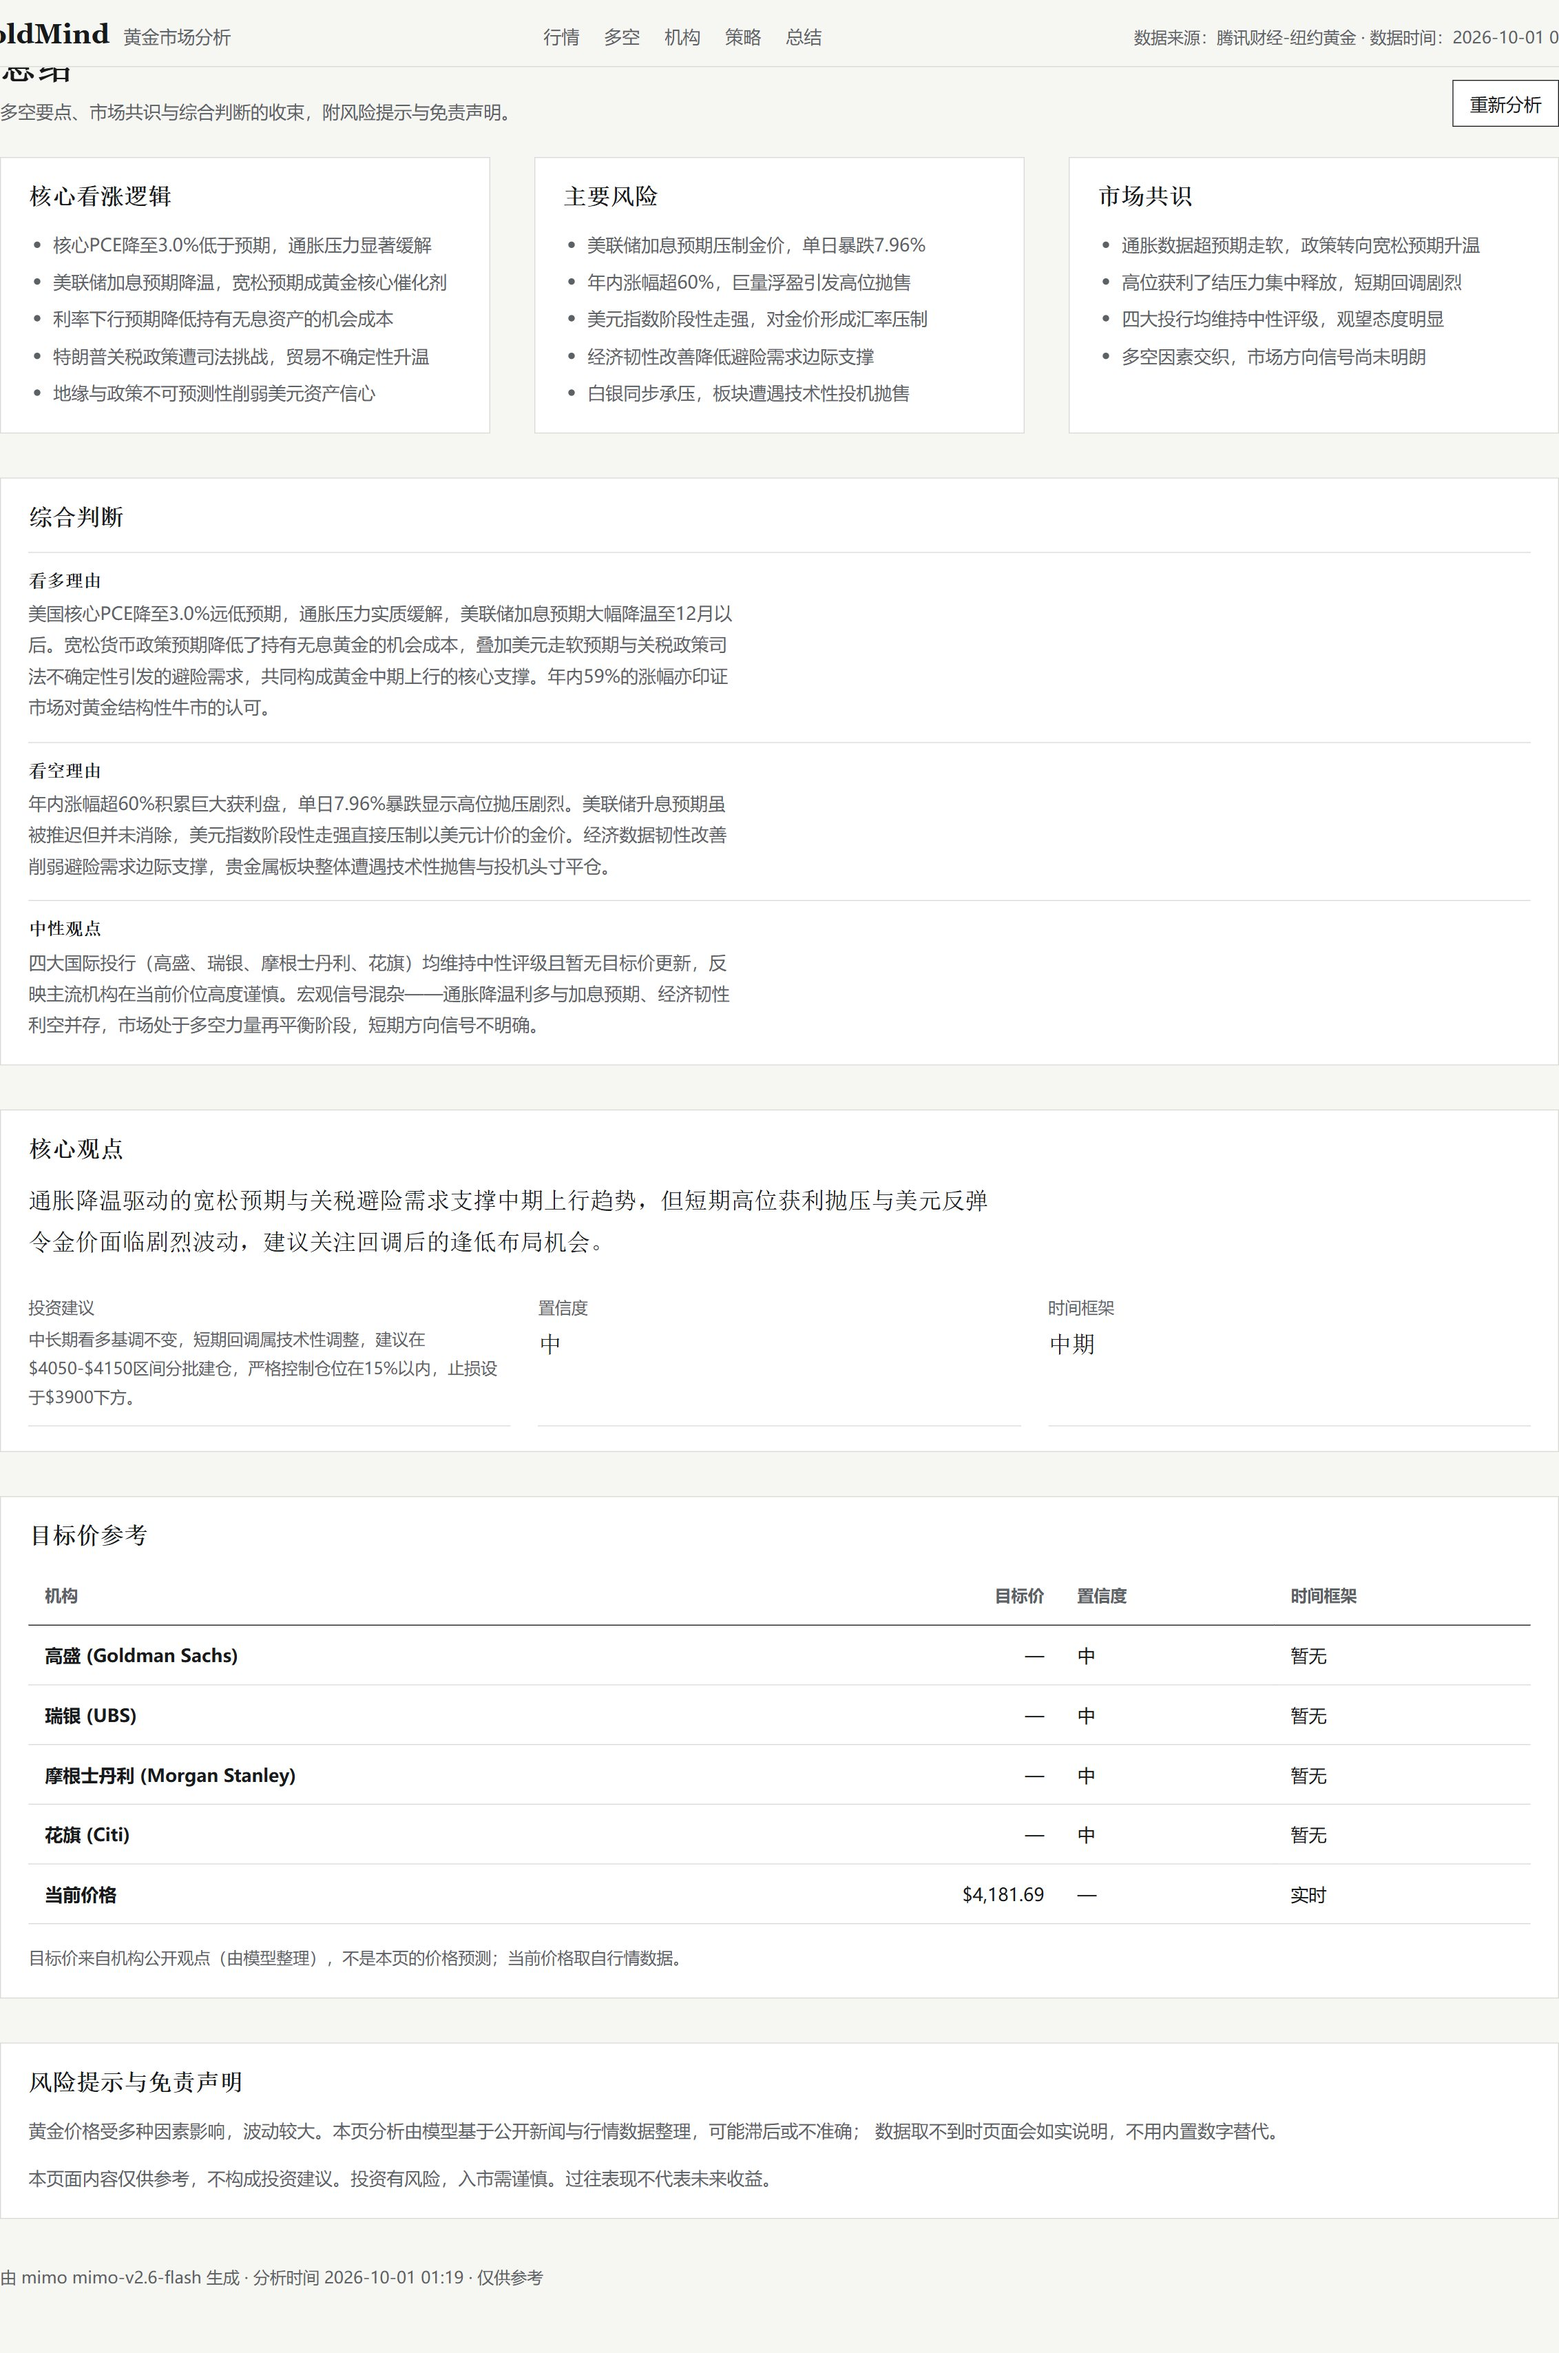
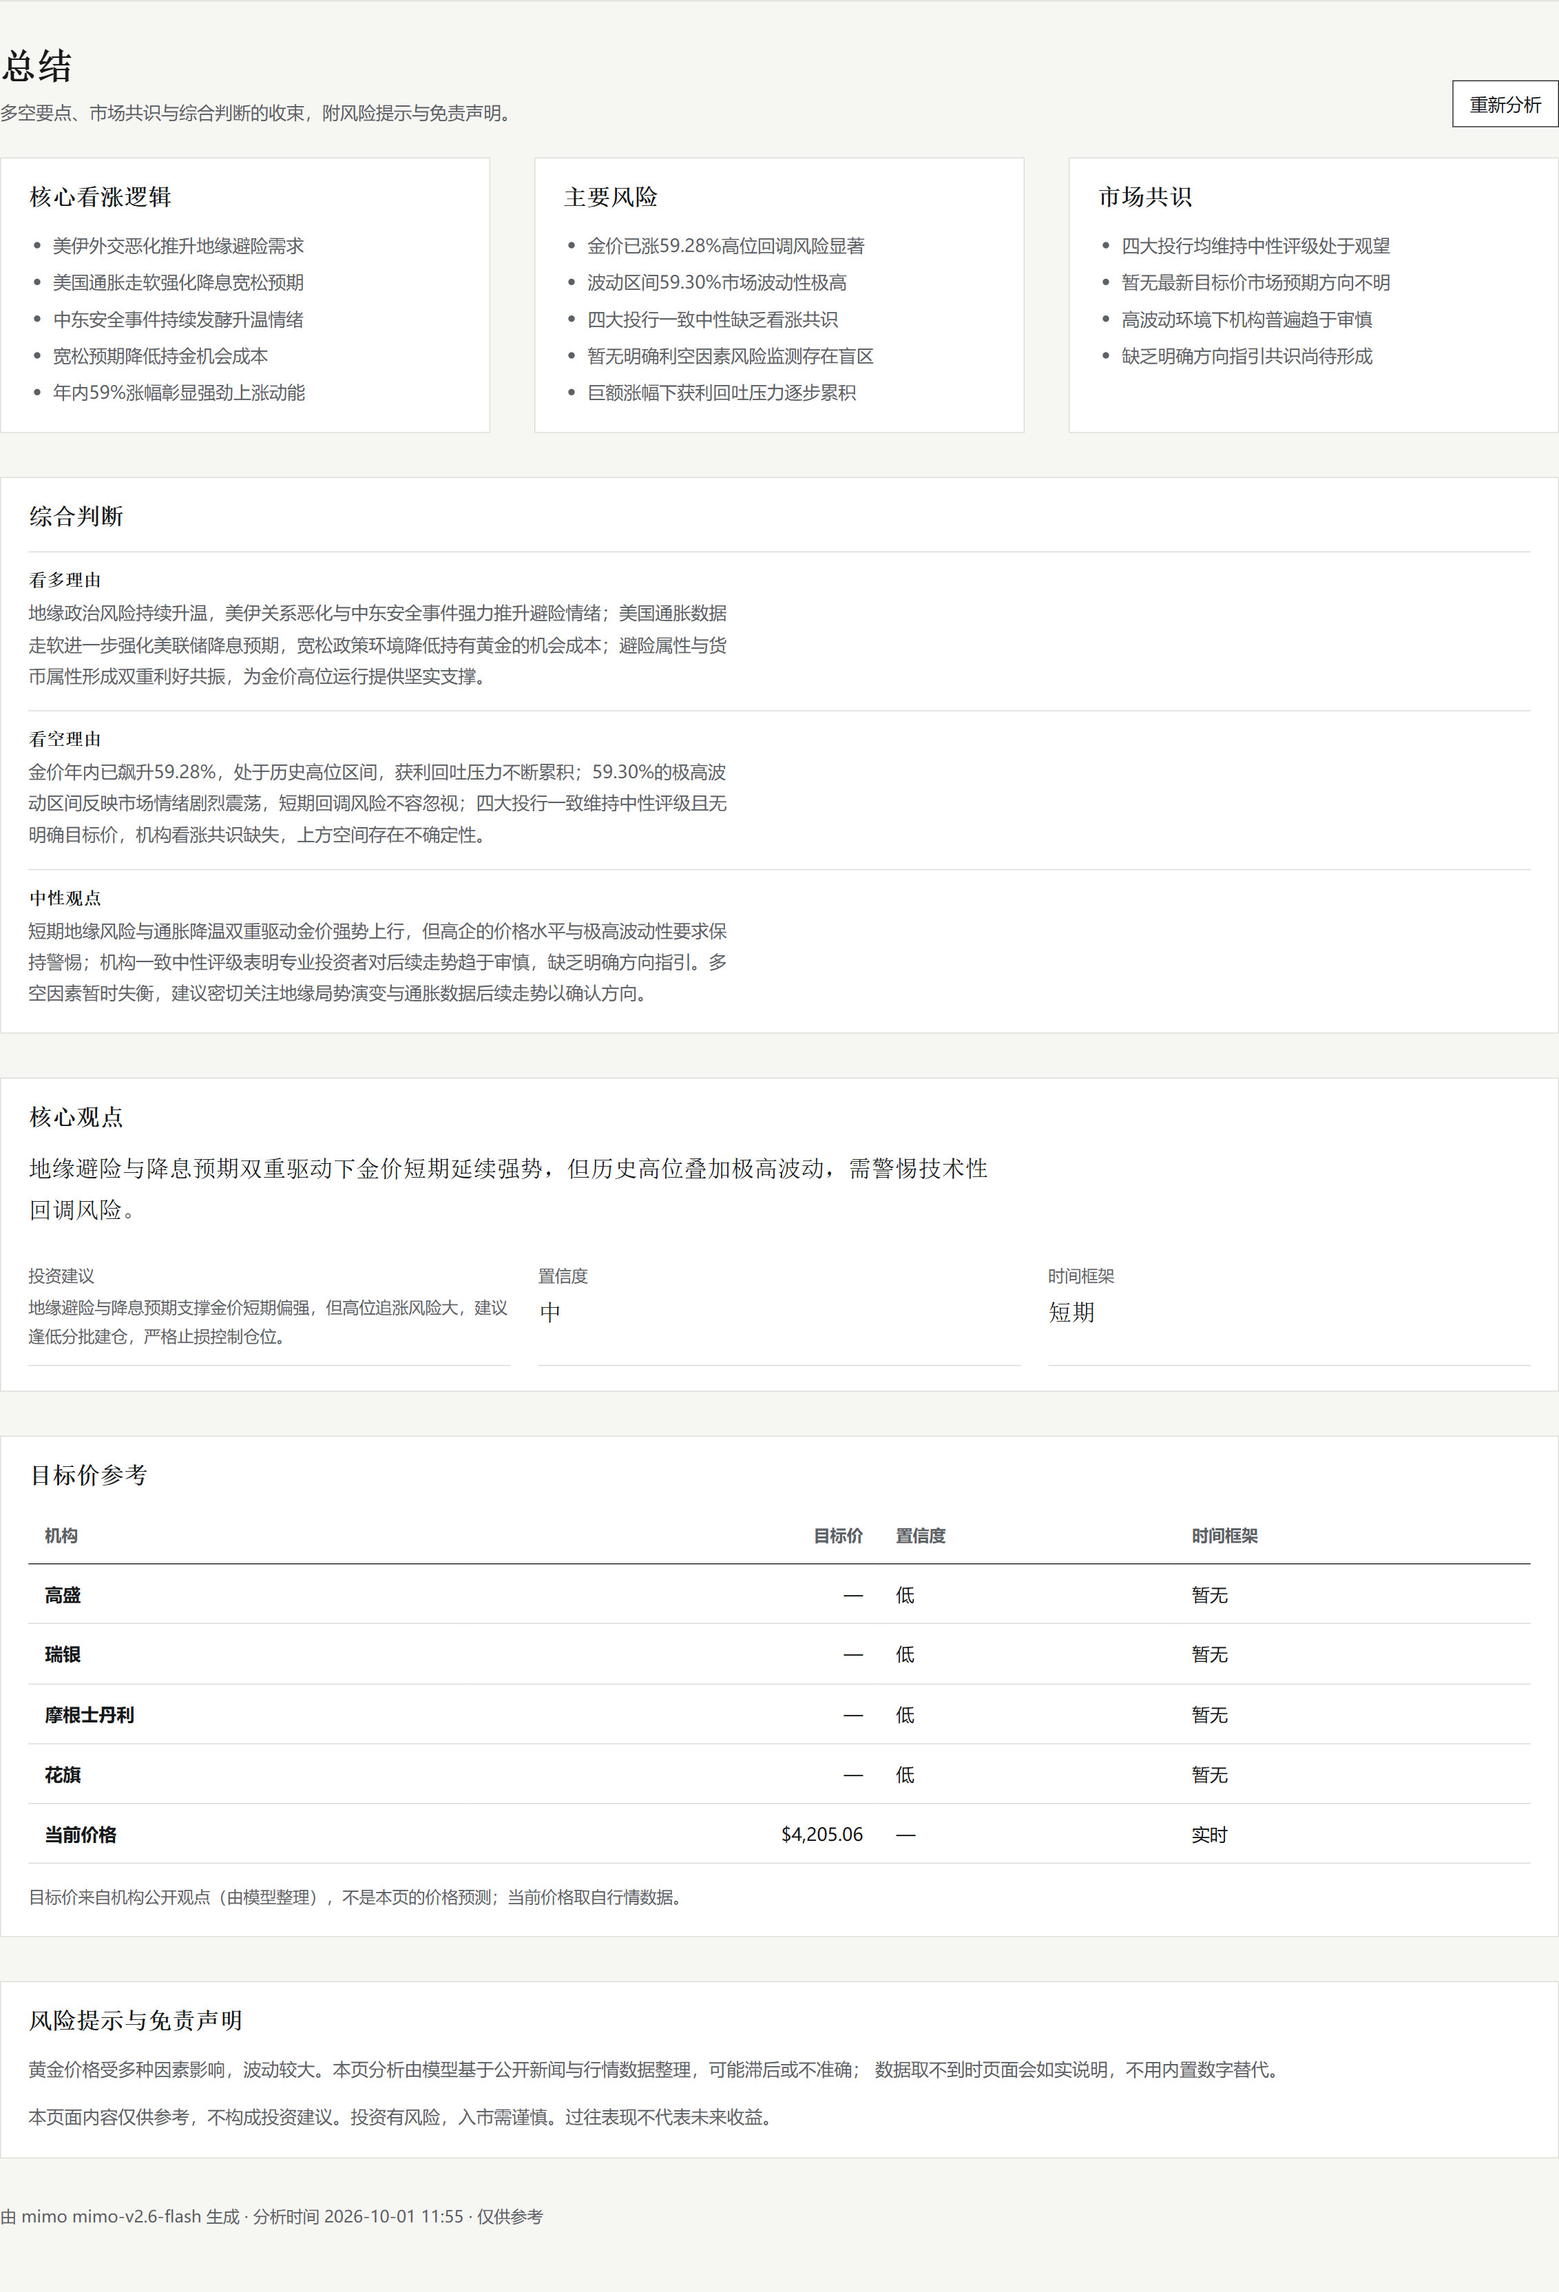
docs: refresh the README screenshots with the quant prediction section
The showcase still showed the five-section brief, the masthead without the
量化 anchor, and prices from before the quant engine was wired in. Regenerate
all seven screenshots from the running deployment (real quotes, seeded price
history, live analysis cache) and add four quant shots: prediction conclusions
with the three scenarios, fair value decomposition, the monitor dashboard and
the backtest hit rates.

Keep the notes tied to what the screen actually shows: the bearish side with
no result yet, the 30-day news window holding no verifiable institution target
price, and the token-capped strategy section. Both READMEs carry the same
section and the same caveats.

diff --git a/README_EN.md b/README_EN.md
@@ -157,6 +157,10 @@ If this project has been helpful or inspiring to you, a ⭐ **Star** is the best
   <img src="https://raw.githubusercontent.com/JasonBuildAI/GoldMind/main/docs/images/screenshots/news-analysis-down.jpeg" alt="Bearish factors" width="400">
 </p>
 
+> The two sides fetch and refresh independently; one side failing does not affect the other.
+> When the screenshot was taken the bearish side had no result yet, so the page states
+> "temporarily unavailable"; press "re-analyse" to retry. It never shows built-in bearish copy.
+
 ### Institutional Views
 <p align="center">
   <img src="https://raw.githubusercontent.com/JasonBuildAI/GoldMind/main/docs/images/screenshots/institutional-views.jpeg" alt="Institutional views" width="800">
@@ -168,6 +172,8 @@ If this project has been helpful or inspiring to you, a ⭐ **Star** is the best
 > was last verified, labelling anything older than 30 days as "stale N days". "None" appears only
 > when not a single one can be found, and **an empty target price never overwrites an existing real
 > record in the database**.
+> When the screenshot was taken the 30-day news window held no verifiable institutional target
+> price, so all four institutions honestly show "no recent prediction".
 
 ### Investment Strategy
 <p align="center">
@@ -177,6 +183,29 @@ If this project has been helpful or inspiring to you, a ⭐ **Star** is the best
 > The screenshot above shows the state when the analysis has not been stored yet: when the model
 > output is truncated by the token limit, this section honestly says "temporarily unavailable"
 > rather than presenting a built-in strategy.
+
+### Quant Prediction
+<p align="center">
+  <img src="https://raw.githubusercontent.com/JasonBuildAI/GoldMind/main/docs/images/screenshots/quant-prediction.jpeg" alt="Quant prediction: direction, probability and scenarios across five horizons" width="800">
+</p>
+
+<p align="center">
+  <img src="https://raw.githubusercontent.com/JasonBuildAI/GoldMind/main/docs/images/screenshots/quant-fair-value.jpeg" alt="Fair value decomposition" width="800">
+</p>
+
+<p align="center">
+  <img src="https://raw.githubusercontent.com/JasonBuildAI/GoldMind/main/docs/images/screenshots/quant-monitor.jpeg" alt="Monitor dashboard (weekly table)" width="800">
+</p>
+
+<p align="center">
+  <img src="https://raw.githubusercontent.com/JasonBuildAI/GoldMind/main/docs/images/screenshots/quant-accuracy.jpeg" alt="Backtest hit rate against benchmarks" width="800">
+</p>
+
+> The quant engine calls no LLM: all 14 factors come from free public data sources. A factor or
+> indicator that cannot be fetched is labelled "unavailable" with its reason, and fewer than three
+> usable factors means "prediction unavailable" outright. When the screenshot was taken 12/14
+> factors were usable; direction, probability, target price and the three scenarios all derive from
+> the same calibrated distribution (see "Quant Strategy").
 
 ### Conclusion
 <p align="center">

diff --git a/README.md b/README.md
@@ -152,6 +152,9 @@ RSS 新闻 ──► MySQL ──┼──► 拼装 prompt ──► llm.invoke
   <img src="https://raw.githubusercontent.com/JasonBuildAI/GoldMind/main/docs/images/screenshots/news-analysis-down.jpeg" alt="看跌因素" width="400">
 </p>
 
+> 两侧独立取数、独立刷新，一侧取不到结果不影响另一侧。截图拍摄时看跌一侧尚未取到结果，
+> 页面如实显示「暂不可用」，点「重新分析」可重试，不摆内置的看跌文案。
+
 ### 机构观点
 <p align="center">
   <img src="https://raw.githubusercontent.com/JasonBuildAI/GoldMind/main/docs/images/screenshots/institutional-views.jpeg" alt="机构观点" width="800">
@@ -161,6 +164,7 @@ RSS 新闻 ──► MySQL ──┼──► 拼装 prompt ──► llm.invoke
 > 提取每家机构**最近一次可核实**的预测，并在「预测日期」列出该预测最近一次被核实的日期，
 > 超过 30 天标注「已滞后 N 天」。一条都找不到才显示「暂无」，
 > 而且**空目标价不会覆盖库里已有的真实记录**。
+> 截图拍摄时 30 天新闻窗口内没有任何可核实的机构目标价，四家机构都如实显示「暂无最新预测」。
 
 ### 投资策略
 <p align="center">
@@ -169,6 +173,27 @@ RSS 新闻 ──► MySQL ──┼──► 拼装 prompt ──► llm.invoke
 
 > 上图为分析尚未落库时的状态：模型输出被 token 上限截断时，这一节如实说明「暂不可用」，
 > 而不是摆一份内置策略。
+
+### 量化预测
+<p align="center">
+  <img src="https://raw.githubusercontent.com/JasonBuildAI/GoldMind/main/docs/images/screenshots/quant-prediction.jpeg" alt="量化预测：五个尺度的方向、概率与三情景" width="800">
+</p>
+
+<p align="center">
+  <img src="https://raw.githubusercontent.com/JasonBuildAI/GoldMind/main/docs/images/screenshots/quant-fair-value.jpeg" alt="公允价值分解" width="800">
+</p>
+
+<p align="center">
+  <img src="https://raw.githubusercontent.com/JasonBuildAI/GoldMind/main/docs/images/screenshots/quant-monitor.jpeg" alt="监测仪表盘（周更表）" width="800">
+</p>
+
+<p align="center">
+  <img src="https://raw.githubusercontent.com/JasonBuildAI/GoldMind/main/docs/images/screenshots/quant-accuracy.jpeg" alt="回测命中率与基准对照" width="800">
+</p>
+
+> 量化引擎不调用大模型：14 个因子全部来自免费公开数据源，取不到的因子与指标如实标「不可用」
+> 并说明原因，可用因子少于 3 个时直接显示「预测不可用」。截图拍摄时 12/14 个因子可用；
+> 方向、概率、目标价与三情景全部派生自同一份校准分布（口径见「量化策略」一节）。
 
 ### 总结
 <p align="center">
